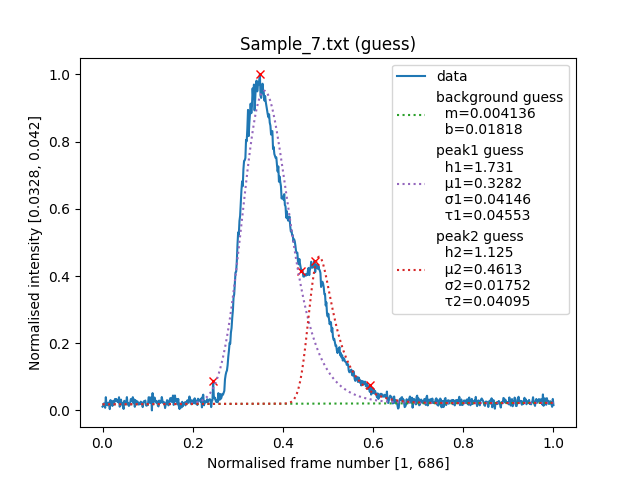
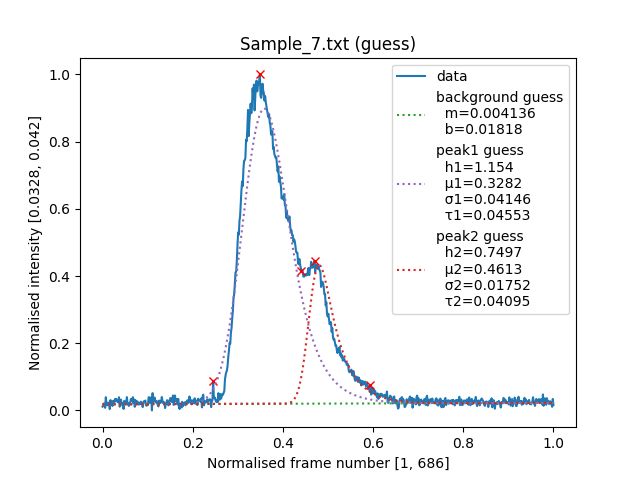
Fix bad bracketing for sqrt(pi/2) constant
Explains why a magic 1.5 factor was needed in h_guess.

diff --git a/fit.py b/fit.py
@@ -75,7 +75,7 @@ def peak_function(x, h, mu, sigma, tau):
   Gaussian function", Journal of Chemometrics, 25(7), 352-356,
   <https://doi.org/10.1002/cem.1343>:
           f(x) =
-                  h sigma/tau sqrt(pi)/2
+                  h sigma/tau sqrt(pi/2)
                   . exp[1/2 (sigma/tau)^2 - (x - mu)/tau]
                   . erfc[1/sqrt(2) (sigma/tau - (x - mu)/sigma)]
   where
@@ -85,7 +85,7 @@ def peak_function(x, h, mu, sigma, tau):
           tau is exponential relaxation time.
   """
   return (
-    h * sigma/tau * np.sqrt(np.pi)/2
+    h * sigma/tau * np.sqrt(np.pi/2)
       * np.exp(1/2 * (sigma/tau)**2 - (x - mu)/tau)
       * sp.erfc(1/np.sqrt(2) * (sigma/tau - (x - mu)/sigma))
   )
@@ -273,7 +273,7 @@ def heuristic_peak_parameter_guesses(x_foot1, x_peak, y_peak, x_foot2):
   which are based purely on intuition and experimentation.
   """
   
-  h_guess = 1.5 * y_peak * np.sqrt((x_foot2 - x_peak) / (x_peak - x_foot1))
+  h_guess = y_peak * np.sqrt((x_foot2 - x_peak) / (x_peak - x_foot1))
   mu_guess = x_peak - 0.2 * (x_peak - x_foot1)
   sigma_guess = 0.4 * (x_peak - x_foot1)
   tau_guess = 0.33 * (x_foot2 - x_peak)

diff --git a/README.md b/README.md
@@ -56,7 +56,7 @@ PDF output is not version-controlled, and can be found in [Releases].
   We use the chromatography version:
   ````
   f(x) =
-          h sigma/tau sqrt(pi)/2
+          h sigma/tau sqrt(pi/2)
           . exp[1/2 (sigma/tau)^2 - (x - mu)/tau]
           . erfc[1/sqrt(2) (sigma/tau - (x - mu)/sigma)]
   ````
